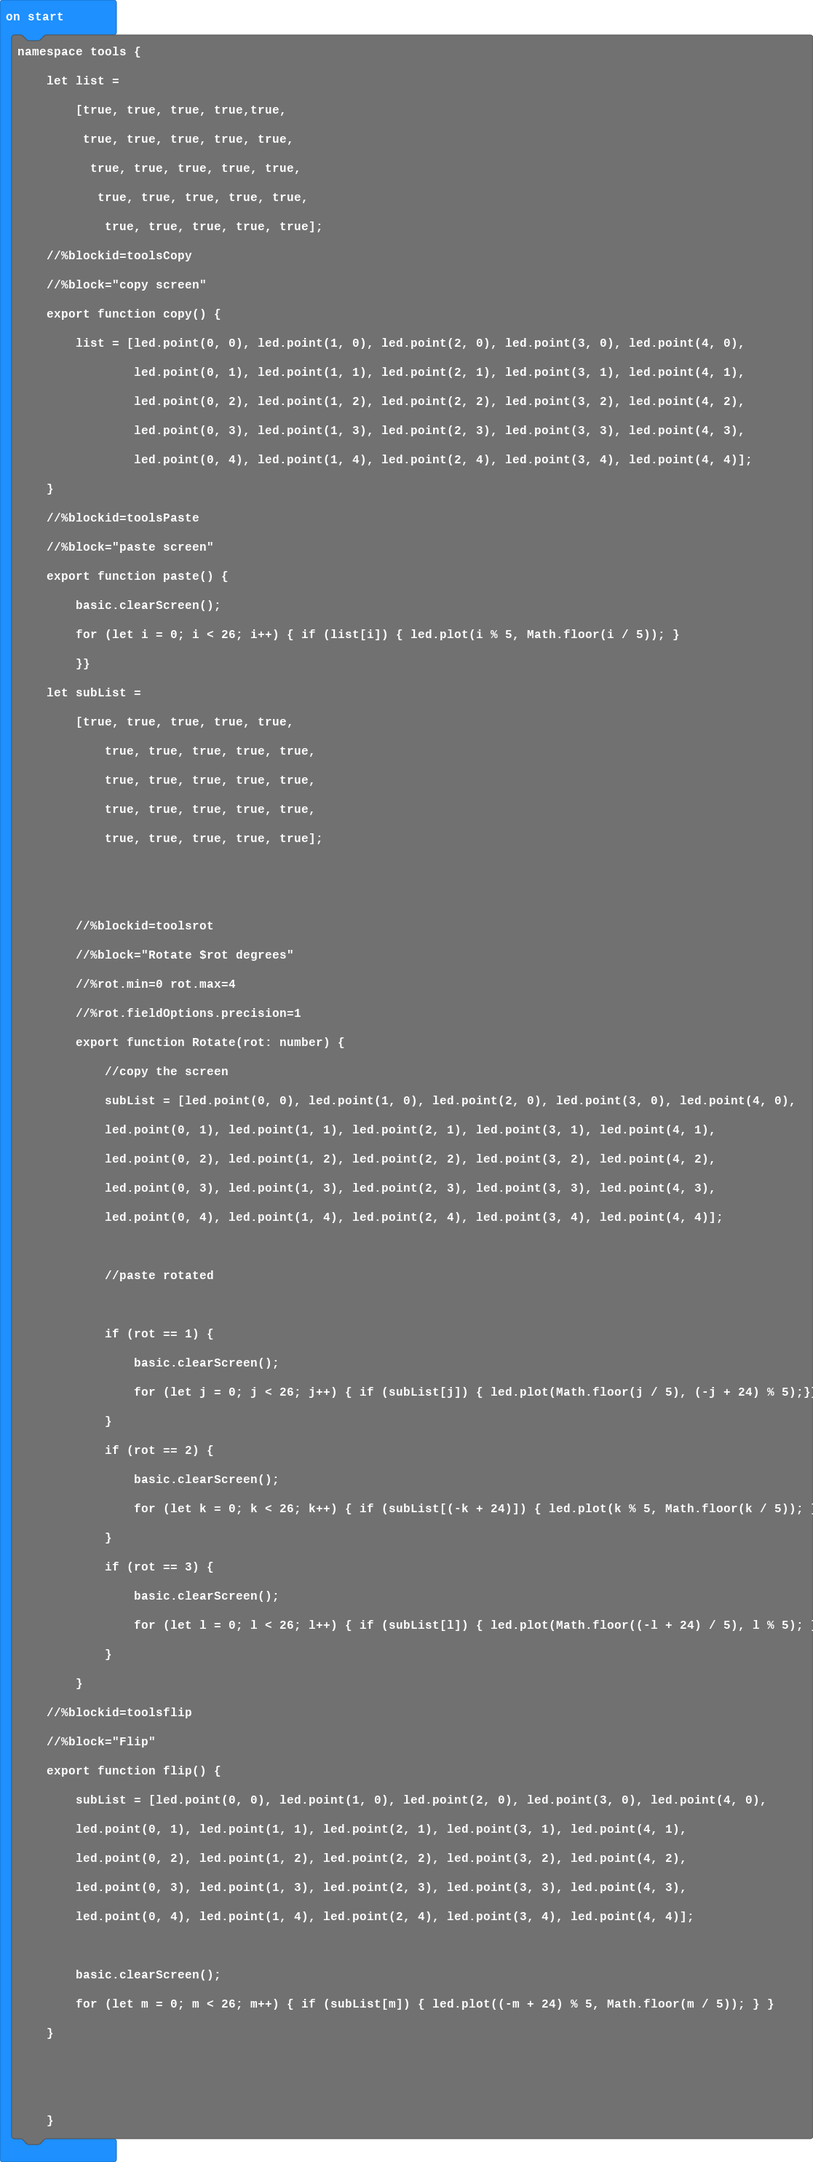
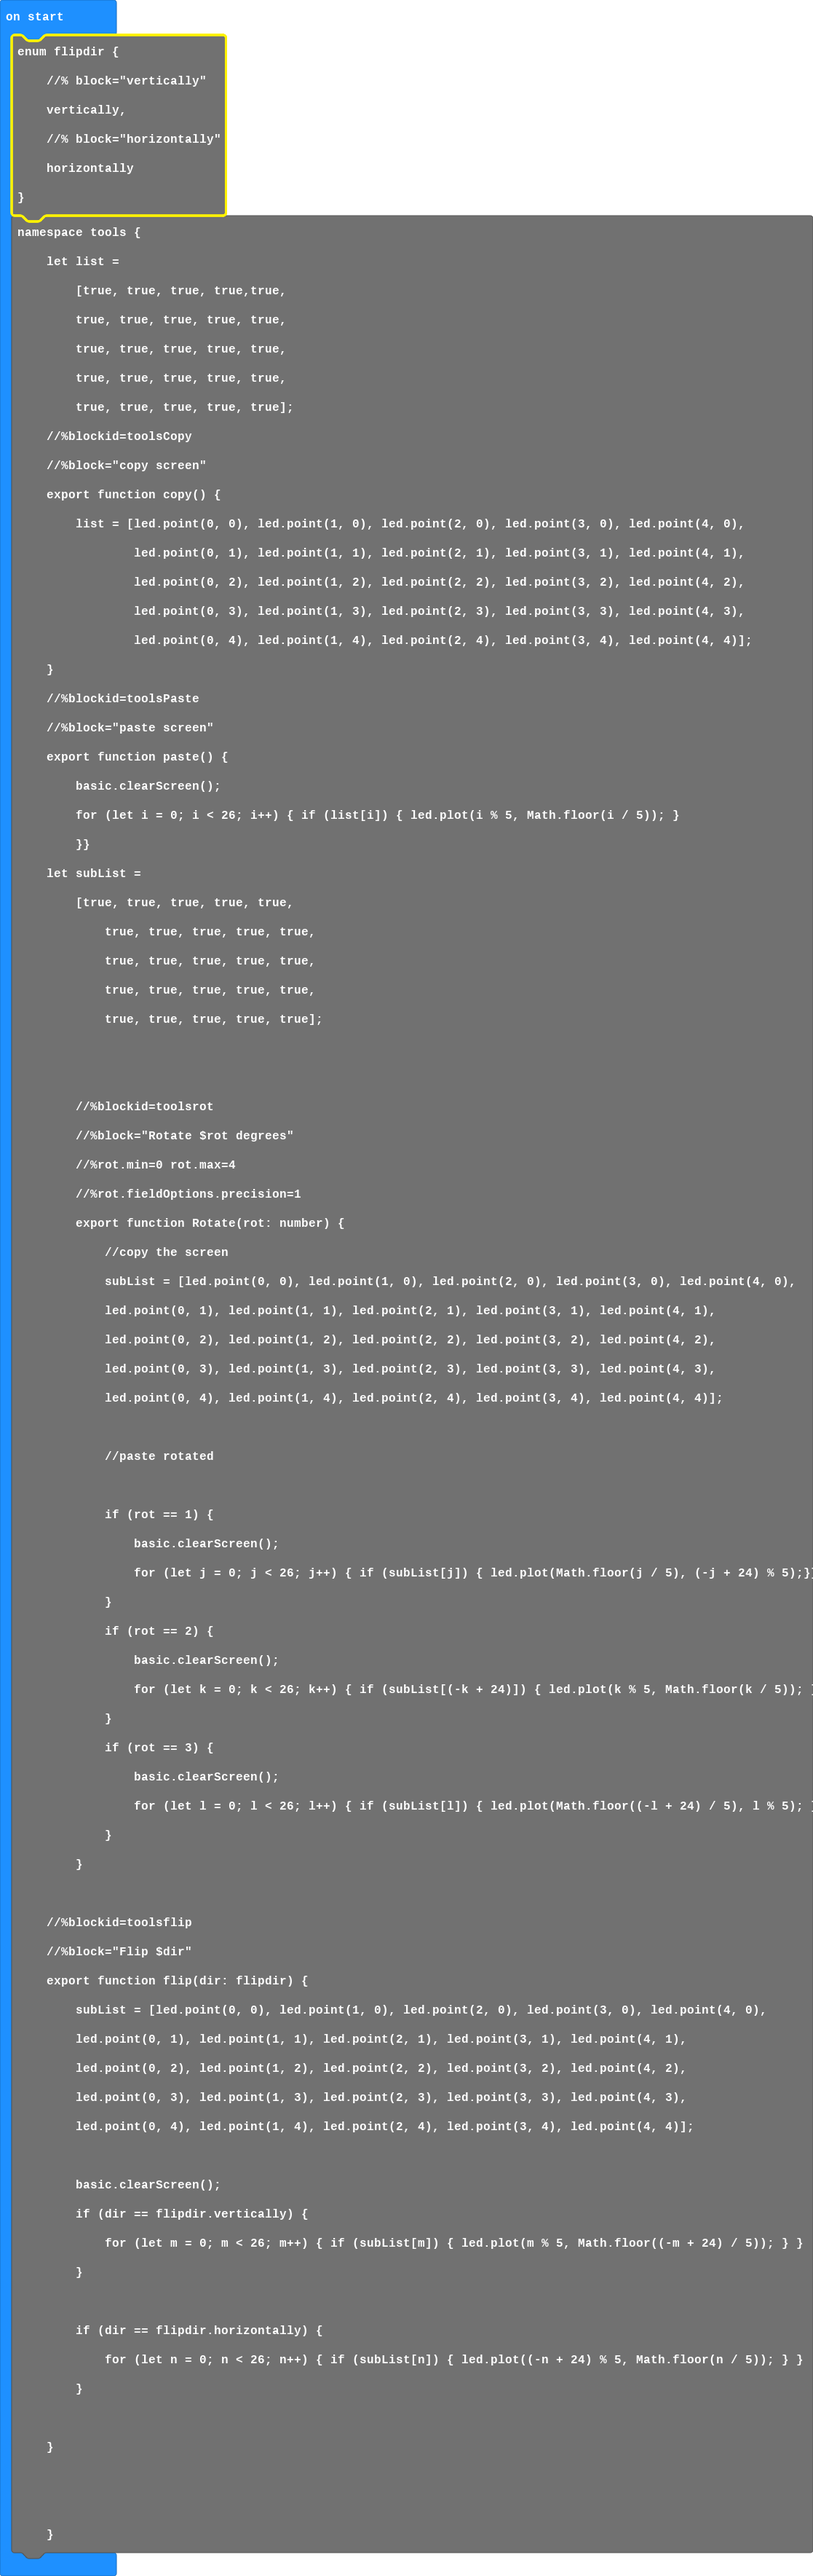
Update main.blocks, main.ts

diff --git a/main.ts b/main.ts
@@ -4,12 +4,6 @@ enum flipdir {
     //% block="horizontally"
     horizontally
 }
-
-
-
-
-
-
 namespace tools {
     let list = 
         [true, true, true, true,true,
@@ -83,7 +77,7 @@ namespace tools {
         }
         
         if (dir == flipdir.horizontally) {
-            for (let m = 0; m < 26; m++) { if (subList[m]) { led.plot((-m + 24) % 5, Math.floor(m / 5)); } }
+            for (let n = 0; n < 26; n++) { if (subList[n]) { led.plot((-n + 24) % 5, Math.floor(n / 5)); } }
         }
         
     }
